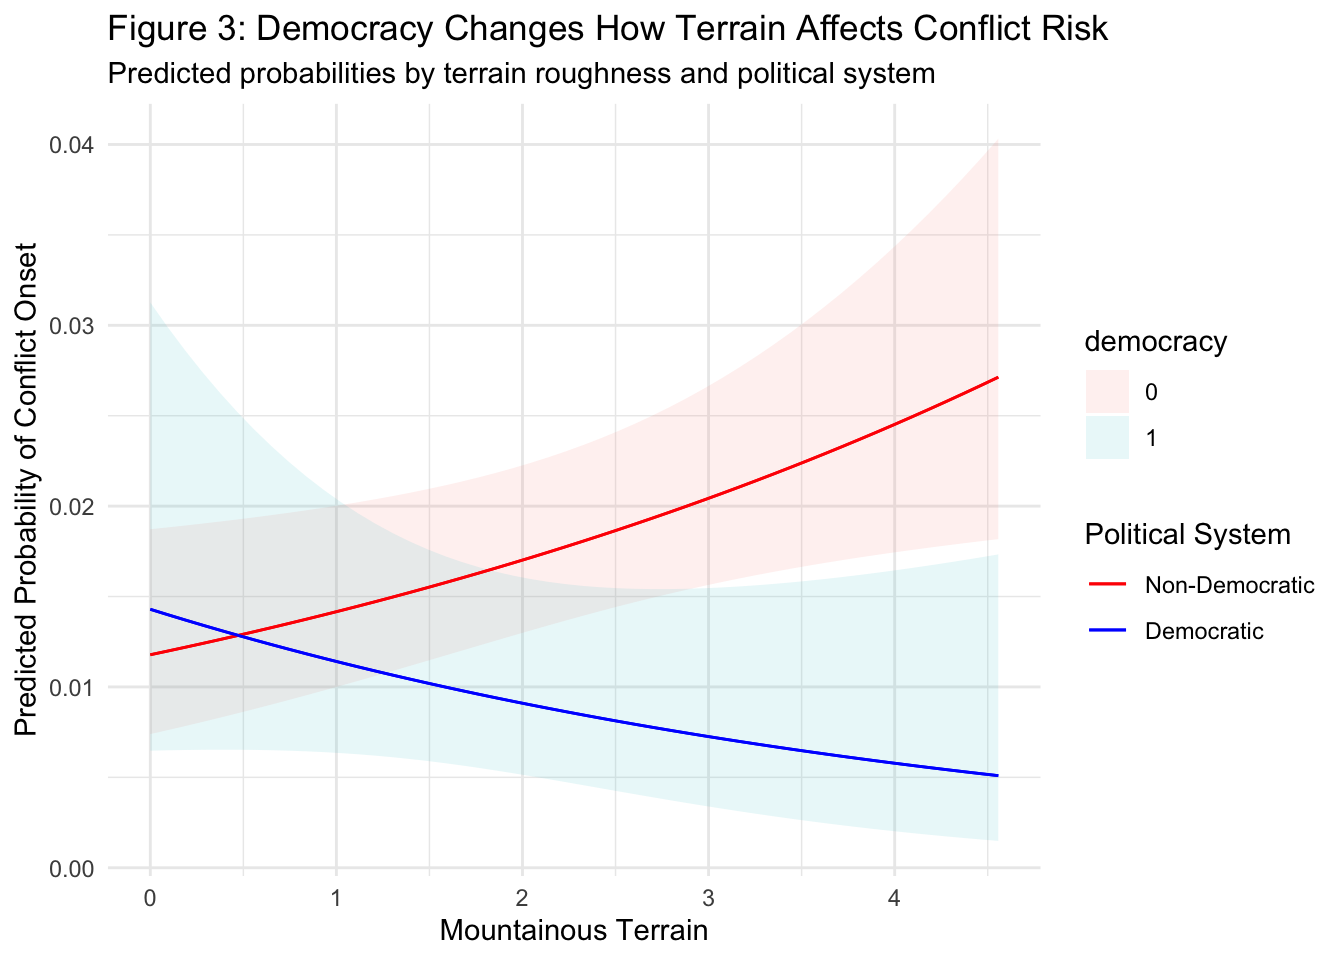
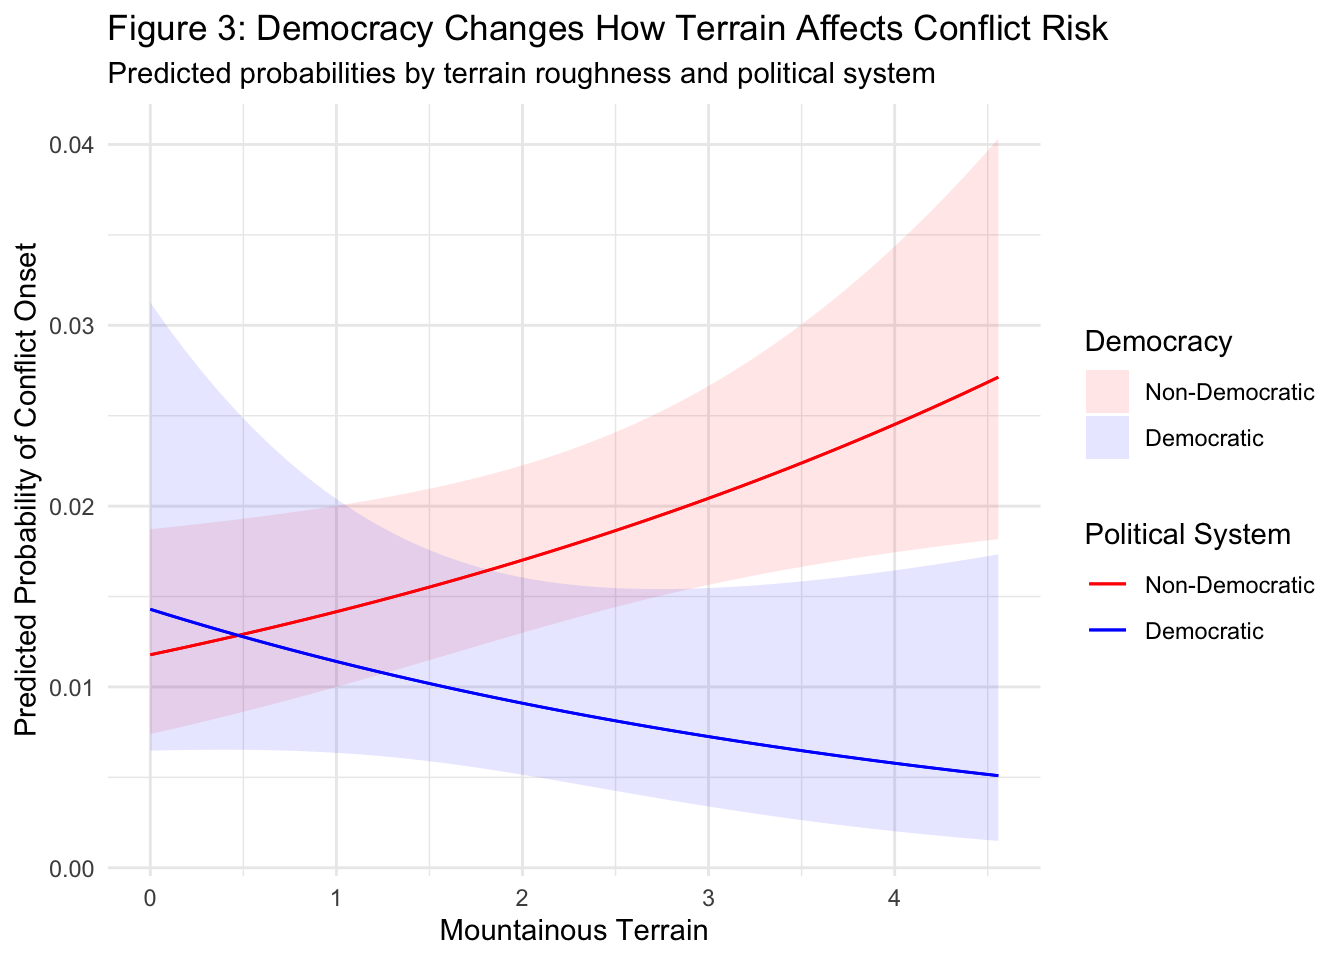
Update module 5.5

Changed region(s): [[0.0938, 0.5312, 0.5, 0.7812], [0.8438, 0.4062, 0.9688, 0.4688], [0.8125, 0.3438, 0.9375, 0.375]]

diff --git a/_site/modules/module-5.5.html b/_site/modules/module-5.5.html
@@ -606,23 +606,23 @@ Prework
 <span>  output <span class="op">=</span> <span class="st">"gt"</span></span>
 <span>  <span class="op">)</span></span></code><button title="Copy to Clipboard" class="code-copy-button"><i class="bi"></i></button></pre></div>
 <div class="cell-output-display">
-<div id="ybzgvfjwnw" style="padding-left:0px;padding-right:0px;padding-top:10px;padding-bottom:10px;overflow-x:auto;overflow-y:auto;width:auto;height:auto;">
-<style>#ybzgvfjwnw table {
+<div id="xsolnvikpp" style="padding-left:0px;padding-right:0px;padding-top:10px;padding-bottom:10px;overflow-x:auto;overflow-y:auto;width:auto;height:auto;">
+<style>#xsolnvikpp table {
   font-family: system-ui, 'Segoe UI', Roboto, Helvetica, Arial, sans-serif, 'Apple Color Emoji', 'Segoe UI Emoji', 'Segoe UI Symbol', 'Noto Color Emoji';
   -webkit-font-smoothing: antialiased;
   -moz-osx-font-smoothing: grayscale;
 }
 
-#ybzgvfjwnw thead, #ybzgvfjwnw tbody, #ybzgvfjwnw tfoot, #ybzgvfjwnw tr, #ybzgvfjwnw td, #ybzgvfjwnw th {
+#xsolnvikpp thead, #xsolnvikpp tbody, #xsolnvikpp tfoot, #xsolnvikpp tr, #xsolnvikpp td, #xsolnvikpp th {
   border-style: none;
 }
 
-#ybzgvfjwnw p {
+#xsolnvikpp p {
   margin: 0;
   padding: 0;
 }
 
-#ybzgvfjwnw .gt_table {
+#xsolnvikpp .gt_table {
   display: table;
   border-collapse: collapse;
   line-height: normal;
@@ -648,12 +648,12 @@ Prework
   border-left-color: #D3D3D3;
 }
 
-#ybzgvfjwnw .gt_caption {
+#xsolnvikpp .gt_caption {
   padding-top: 4px;
   padding-bottom: 4px;
 }
 
-#ybzgvfjwnw .gt_title {
+#xsolnvikpp .gt_title {
   color: #333333;
   font-size: 125%;
   font-weight: initial;
@@ -665,7 +665,7 @@ Prework
   border-bottom-width: 0;
 }
 
-#ybzgvfjwnw .gt_subtitle {
+#xsolnvikpp .gt_subtitle {
   color: #333333;
   font-size: 85%;
   font-weight: initial;
@@ -677,7 +677,7 @@ Prework
   border-top-width: 0;
 }
 
-#ybzgvfjwnw .gt_heading {
+#xsolnvikpp .gt_heading {
   background-color: #FFFFFF;
   text-align: center;
   border-bottom-color: #FFFFFF;
@@ -689,13 +689,13 @@ Prework
   border-right-color: #D3D3D3;
 }
 
-#ybzgvfjwnw .gt_bottom_border {
+#xsolnvikpp .gt_bottom_border {
   border-bottom-style: solid;
   border-bottom-width: 2px;
   border-bottom-color: #D3D3D3;
 }
 
-#ybzgvfjwnw .gt_col_headings {
+#xsolnvikpp .gt_col_headings {
   border-top-style: solid;
   border-top-width: 2px;
   border-top-color: #D3D3D3;
@@ -710,7 +710,7 @@ Prework
   border-right-color: #D3D3D3;
 }
 
-#ybzgvfjwnw .gt_col_heading {
+#xsolnvikpp .gt_col_heading {
   color: #333333;
   background-color: #FFFFFF;
   font-size: 100%;
@@ -730,7 +730,7 @@ Prework
   overflow-x: hidden;
 }
 
-#ybzgvfjwnw .gt_column_spanner_outer {
+#xsolnvikpp .gt_column_spanner_outer {
   color: #333333;
   background-color: #FFFFFF;
   font-size: 100%;
@@ -742,15 +742,15 @@ Prework
   padding-right: 4px;
 }
 
-#ybzgvfjwnw .gt_column_spanner_outer:first-child {
+#xsolnvikpp .gt_column_spanner_outer:first-child {
   padding-left: 0;
 }
 
-#ybzgvfjwnw .gt_column_spanner_outer:last-child {
+#xsolnvikpp .gt_column_spanner_outer:last-child {
   padding-right: 0;
 }
 
-#ybzgvfjwnw .gt_column_spanner {
+#xsolnvikpp .gt_column_spanner {
   border-bottom-style: solid;
   border-bottom-width: 2px;
   border-bottom-color: #D3D3D3;
@@ -762,11 +762,11 @@ Prework
   width: 100%;
 }
 
-#ybzgvfjwnw .gt_spanner_row {
+#xsolnvikpp .gt_spanner_row {
   border-bottom-style: hidden;
 }
 
-#ybzgvfjwnw .gt_group_heading {
+#xsolnvikpp .gt_group_heading {
   padding-top: 8px;
   padding-bottom: 8px;
   padding-left: 5px;
@@ -792,7 +792,7 @@ Prework
   text-align: left;
 }
 
-#ybzgvfjwnw .gt_empty_group_heading {
+#xsolnvikpp .gt_empty_group_heading {
   padding: 0.5px;
   color: #333333;
   background-color: #FFFFFF;
@@ -807,15 +807,15 @@ Prework
   vertical-align: middle;
 }
 
-#ybzgvfjwnw .gt_from_md > :first-child {
+#xsolnvikpp .gt_from_md > :first-child {
   margin-top: 0;
 }
 
-#ybzgvfjwnw .gt_from_md > :last-child {
+#xsolnvikpp .gt_from_md > :last-child {
   margin-bottom: 0;
 }
 
-#ybzgvfjwnw .gt_row {
+#xsolnvikpp .gt_row {
   padding-top: 8px;
   padding-bottom: 8px;
   padding-left: 5px;
@@ -834,7 +834,7 @@ Prework
   overflow-x: hidden;
 }
 
-#ybzgvfjwnw .gt_stub {
+#xsolnvikpp .gt_stub {
   color: #333333;
   background-color: #FFFFFF;
   font-size: 100%;
@@ -847,7 +847,7 @@ Prework
   padding-right: 5px;
 }
 
-#ybzgvfjwnw .gt_stub_row_group {
+#xsolnvikpp .gt_stub_row_group {
   color: #333333;
   background-color: #FFFFFF;
   font-size: 100%;
@@ -861,15 +861,15 @@ Prework
   vertical-align: top;
 }
 
-#ybzgvfjwnw .gt_row_group_first td {
+#xsolnvikpp .gt_row_group_first td {
   border-top-width: 2px;
 }
 
-#ybzgvfjwnw .gt_row_group_first th {
+#xsolnvikpp .gt_row_group_first th {
   border-top-width: 2px;
 }
 
-#ybzgvfjwnw .gt_summary_row {
+#xsolnvikpp .gt_summary_row {
   color: #333333;
   background-color: #FFFFFF;
   text-transform: inherit;
@@ -879,16 +879,16 @@ Prework
   padding-right: 5px;
 }
 
-#ybzgvfjwnw .gt_first_summary_row {
+#xsolnvikpp .gt_first_summary_row {
   border-top-style: solid;
   border-top-color: #D3D3D3;
 }
 
-#ybzgvfjwnw .gt_first_summary_row.thick {
+#xsolnvikpp .gt_first_summary_row.thick {
   border-top-width: 2px;
 }
 
-#ybzgvfjwnw .gt_last_summary_row {
+#xsolnvikpp .gt_last_summary_row {
   padding-top: 8px;
   padding-bottom: 8px;
   padding-left: 5px;
@@ -898,7 +898,7 @@ Prework
   border-bottom-color: #D3D3D3;
 }
 
-#ybzgvfjwnw .gt_grand_summary_row {
+#xsolnvikpp .gt_grand_summary_row {
   color: #333333;
   background-color: #FFFFFF;
   text-transform: inherit;
@@ -908,7 +908,7 @@ Prework
   padding-right: 5px;
 }
 
-#ybzgvfjwnw .gt_first_grand_summary_row {
+#xsolnvikpp .gt_first_grand_summary_row {
   padding-top: 8px;
   padding-bottom: 8px;
   padding-left: 5px;
@@ -918,7 +918,7 @@ Prework
   border-top-color: #D3D3D3;
 }
 
-#ybzgvfjwnw .gt_last_grand_summary_row_top {
+#xsolnvikpp .gt_last_grand_summary_row_top {
   padding-top: 8px;
   padding-bottom: 8px;
   padding-left: 5px;
@@ -928,11 +928,11 @@ Prework
   border-bottom-color: #D3D3D3;
 }
 
-#ybzgvfjwnw .gt_striped {
+#xsolnvikpp .gt_striped {
   background-color: rgba(128, 128, 128, 0.05);
 }
 
-#ybzgvfjwnw .gt_table_body {
+#xsolnvikpp .gt_table_body {
   border-top-style: solid;
   border-top-width: 2px;
   border-top-color: #D3D3D3;
@@ -941,7 +941,7 @@ Prework
   border-bottom-color: #D3D3D3;
 }
 
-#ybzgvfjwnw .gt_footnotes {
+#xsolnvikpp .gt_footnotes {
   color: #333333;
   background-color: #FFFFFF;
   border-bottom-style: none;
@@ -955,7 +955,7 @@ Prework
   border-right-color: #D3D3D3;
 }
 
-#ybzgvfjwnw .gt_footnote {
+#xsolnvikpp .gt_footnote {
   margin: 0px;
   font-size: 90%;
   padding-top: 4px;
@@ -964,7 +964,7 @@ Prework
   padding-right: 5px;
 }
 
-#ybzgvfjwnw .gt_sourcenotes {
+#xsolnvikpp .gt_sourcenotes {
   color: #333333;
   background-color: #FFFFFF;
   border-bottom-style: none;
@@ -978,7 +978,7 @@ Prework
   border-right-color: #D3D3D3;
 }
 
-#ybzgvfjwnw .gt_sourcenote {
+#xsolnvikpp .gt_sourcenote {
   font-size: 90%;
   padding-top: 4px;
   padding-bottom: 4px;
@@ -986,72 +986,72 @@ Prework
   padding-right: 5px;
 }
 
-#ybzgvfjwnw .gt_left {
+#xsolnvikpp .gt_left {
   text-align: left;
 }
 
-#ybzgvfjwnw .gt_center {
+#xsolnvikpp .gt_center {
   text-align: center;
 }
 
-#ybzgvfjwnw .gt_right {
+#xsolnvikpp .gt_right {
   text-align: right;
   font-variant-numeric: tabular-nums;
 }
 
-#ybzgvfjwnw .gt_font_normal {
+#xsolnvikpp .gt_font_normal {
   font-weight: normal;
 }
 
-#ybzgvfjwnw .gt_font_bold {
+#xsolnvikpp .gt_font_bold {
   font-weight: bold;
 }
 
-#ybzgvfjwnw .gt_font_italic {
+#xsolnvikpp .gt_font_italic {
   font-style: italic;
 }
 
-#ybzgvfjwnw .gt_super {
+#xsolnvikpp .gt_super {
   font-size: 65%;
 }
 
-#ybzgvfjwnw .gt_footnote_marks {
+#xsolnvikpp .gt_footnote_marks {
   font-size: 75%;
   vertical-align: 0.4em;
   position: initial;
 }
 
-#ybzgvfjwnw .gt_asterisk {
+#xsolnvikpp .gt_asterisk {
   font-size: 100%;
   vertical-align: 0;
 }
 
-#ybzgvfjwnw .gt_indent_1 {
+#xsolnvikpp .gt_indent_1 {
   text-indent: 5px;
 }
 
-#ybzgvfjwnw .gt_indent_2 {
+#xsolnvikpp .gt_indent_2 {
   text-indent: 10px;
 }
 
-#ybzgvfjwnw .gt_indent_3 {
+#xsolnvikpp .gt_indent_3 {
   text-indent: 15px;
 }
 
-#ybzgvfjwnw .gt_indent_4 {
+#xsolnvikpp .gt_indent_4 {
   text-indent: 20px;
 }
 
-#ybzgvfjwnw .gt_indent_5 {
+#xsolnvikpp .gt_indent_5 {
   text-indent: 25px;
 }
 
-#ybzgvfjwnw .katex-display {
+#xsolnvikpp .katex-display {
   display: inline-flex !important;
   margin-bottom: 0.75em !important;
 }
 
-#ybzgvfjwnw div.Reactable > div.rt-table > div.rt-thead > div.rt-tr.rt-tr-group-header > div.rt-th-group:after {
+#xsolnvikpp div.Reactable > div.rt-table > div.rt-thead > div.rt-tr.rt-tr-group-header > div.rt-th-group:after {
   height: 0px !important;
 }
 </style>
@@ -1325,9 +1325,14 @@ Your Turn!
 <span>    subtitle <span class="op">=</span> <span class="st">"Predicted probabilities by terrain roughness and political system"</span>,</span>
 <span>    x <span class="op">=</span> <span class="st">"Mountainous Terrain"</span>,</span>
 <span>    y <span class="op">=</span> <span class="st">"Predicted Probability of Conflict Onset"</span>,</span>
-<span>    color <span class="op">=</span> <span class="st">"Political System"</span></span>
+<span>    color <span class="op">=</span> <span class="st">"Political System"</span>,</span>
+<span>    fill <span class="op">=</span> <span class="st">"Democracy"</span></span>
 <span>  <span class="op">)</span> <span class="op">+</span></span>
 <span>  <span class="fu"><a href="https://ggplot2.tidyverse.org/reference/scale_manual.html">scale_color_manual</a></span><span class="op">(</span></span>
+<span>    values <span class="op">=</span> <span class="fu"><a href="https://rdrr.io/r/base/c.html">c</a></span><span class="op">(</span><span class="st">"0"</span> <span class="op">=</span> <span class="st">"red"</span>, <span class="st">"1"</span> <span class="op">=</span> <span class="st">"blue"</span><span class="op">)</span>,</span>
+<span>    labels <span class="op">=</span> <span class="fu"><a href="https://rdrr.io/r/base/c.html">c</a></span><span class="op">(</span><span class="st">"0"</span> <span class="op">=</span> <span class="st">"Non-Democratic"</span>, <span class="st">"1"</span> <span class="op">=</span> <span class="st">"Democratic"</span><span class="op">)</span></span>
+<span>  <span class="op">)</span> <span class="op">+</span></span>
+<span>  <span class="fu"><a href="https://ggplot2.tidyverse.org/reference/scale_manual.html">scale_fill_manual</a></span><span class="op">(</span></span>
 <span>    values <span class="op">=</span> <span class="fu"><a href="https://rdrr.io/r/base/c.html">c</a></span><span class="op">(</span><span class="st">"0"</span> <span class="op">=</span> <span class="st">"red"</span>, <span class="st">"1"</span> <span class="op">=</span> <span class="st">"blue"</span><span class="op">)</span>,</span>
 <span>    labels <span class="op">=</span> <span class="fu"><a href="https://rdrr.io/r/base/c.html">c</a></span><span class="op">(</span><span class="st">"0"</span> <span class="op">=</span> <span class="st">"Non-Democratic"</span>, <span class="st">"1"</span> <span class="op">=</span> <span class="st">"Democratic"</span><span class="op">)</span></span>
 <span>  <span class="op">)</span> <span class="op">+</span></span>
